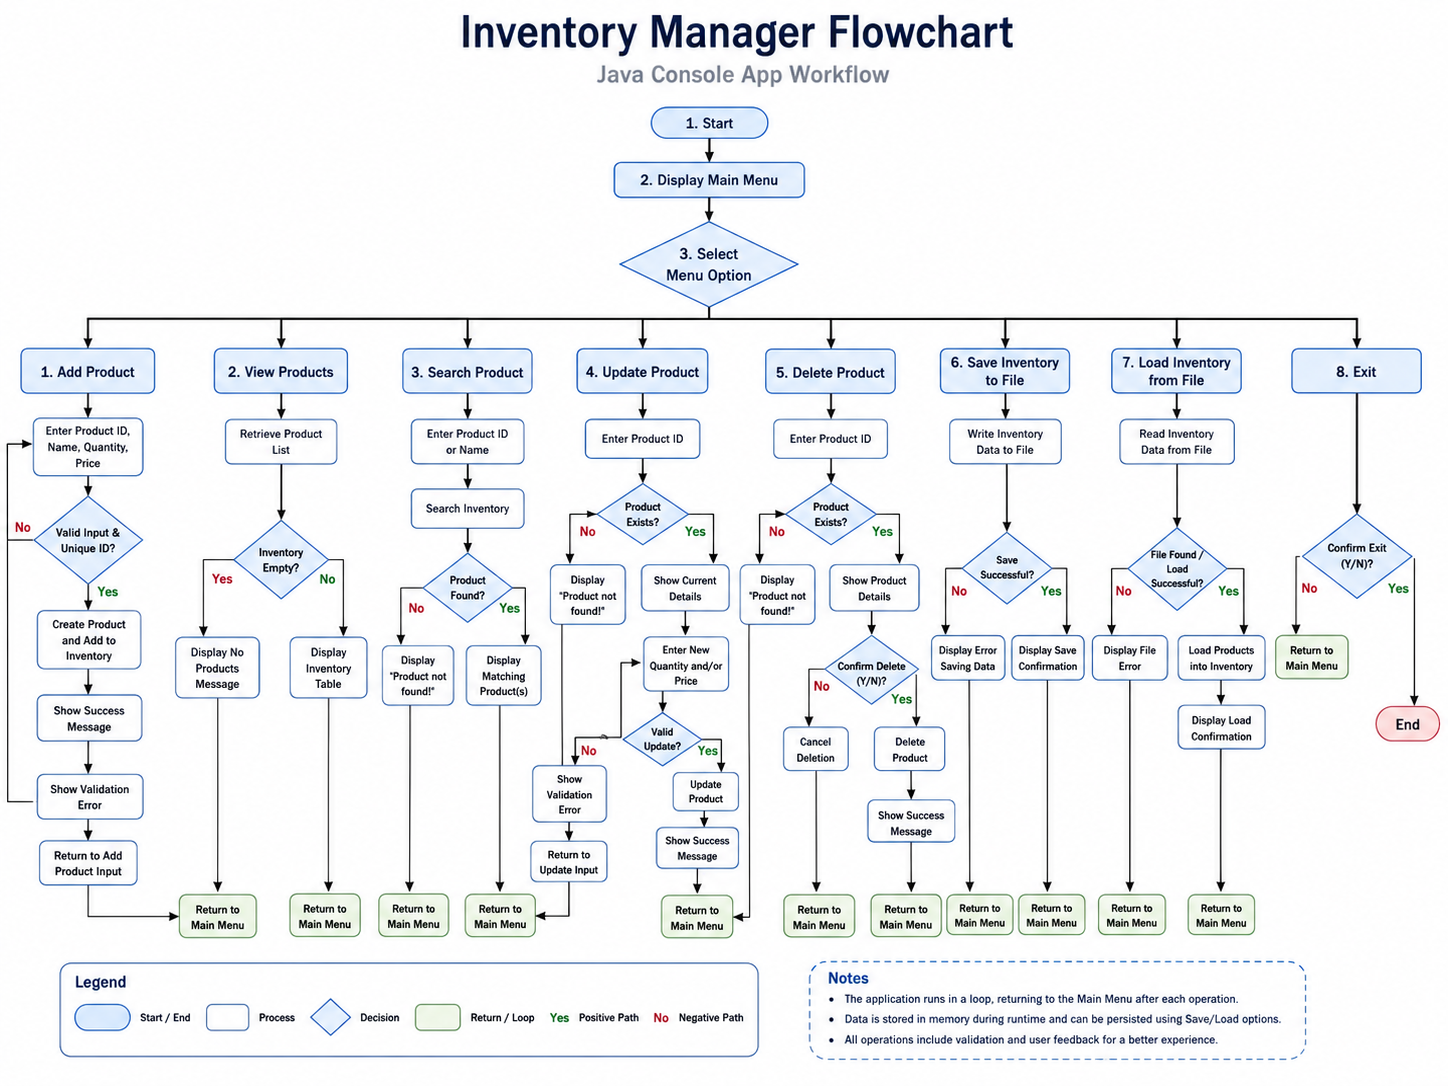
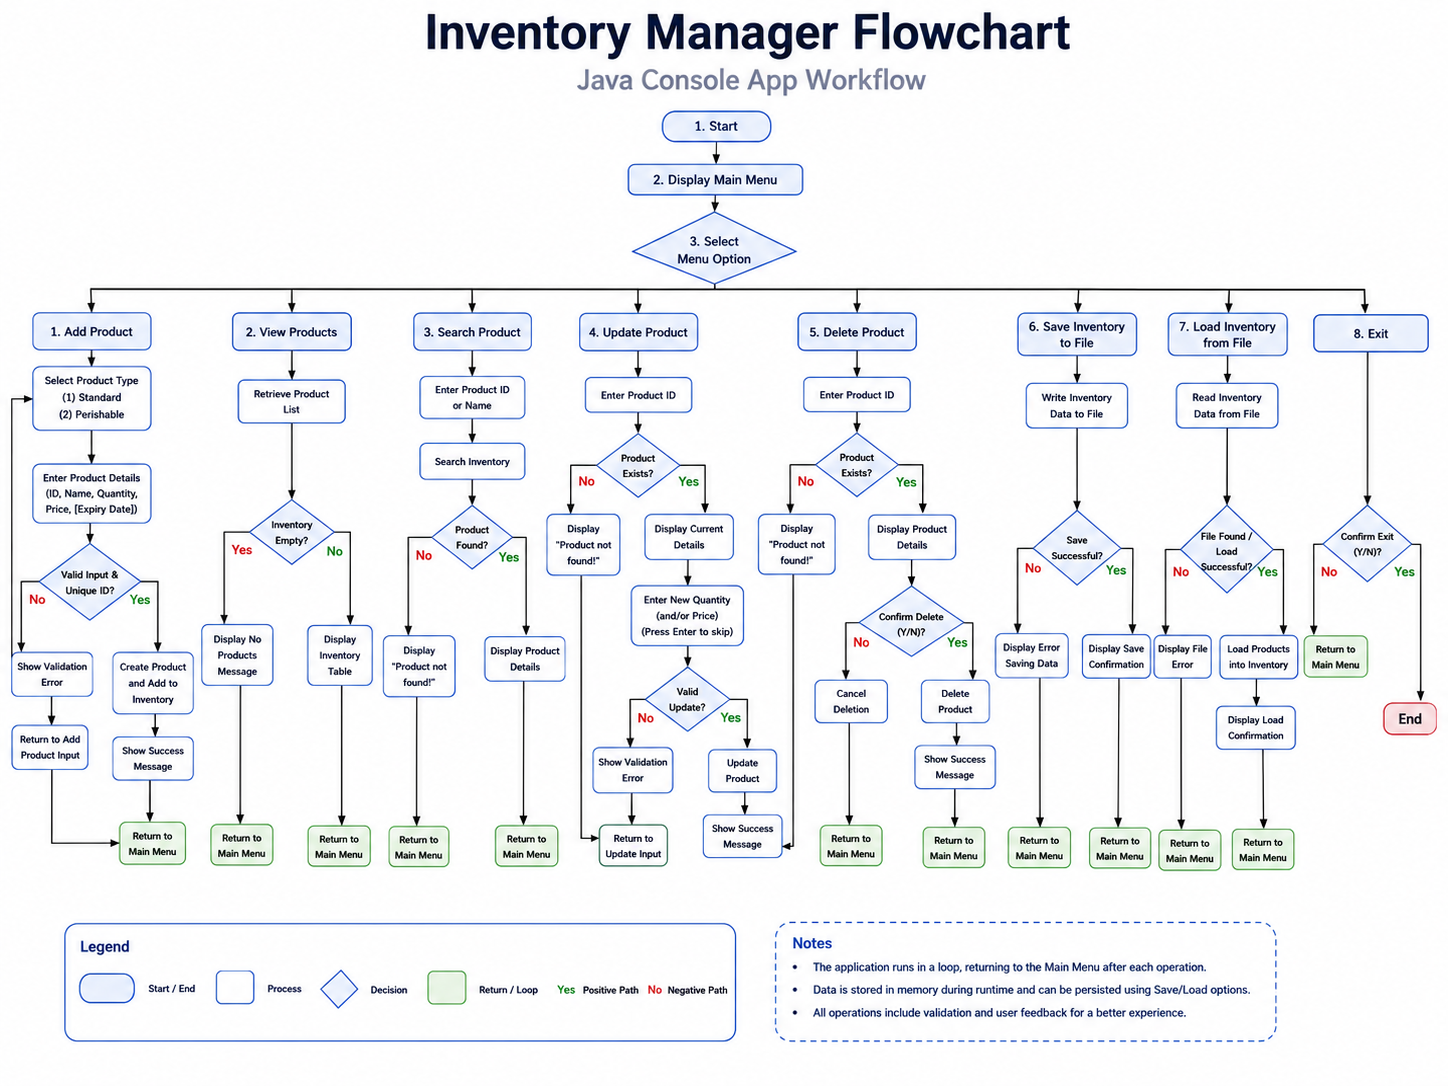
Final Push

Changed region(s): [[0.0, 0.0, 0.9945, 0.9724]]

diff --git a/swe_java/05_summative_assessment/java-summative-assessment/src/main/java/learn/inventory/ui/MainMenu.java b/swe_java/05_summative_assessment/java-summative-assessment/src/main/java/learn/inventory/ui/MainMenu.java
@@ -49,9 +49,7 @@ public class MainMenu {
         boolean running = true;
 
         while (running) {
-            /**
-             * Displays the available Inventory Manager menu options.
-             */
+
             displayMenu();
 
             String choice = scanner.nextLine().trim();
@@ -76,6 +74,9 @@ public class MainMenu {
         System.out.println("\nThank you for using Inventory Manager!");
     }
 
+    /**
+     * Displays the available Inventory Manager menu options.
+     */
     private void displayMenu() {
 
         displayDivider();

diff --git a/swe_java/05_summative_assessment/java-summative-assessment/documentation/project-doc/PROJECT_PLAN.md b/swe_java/05_summative_assessment/java-summative-assessment/documentation/project-doc/PROJECT_PLAN.md
@@ -134,3 +134,17 @@ The following features have been completed:
 - Handwritten pseudocode documentation
 - Javadoc comments for production classes
 - Generated HTML Javadoc documentation
+
+## Timeline and Milestones
+
+| Date | Focus | Milestone |
+|---|---|---|
+| July 19 | Pre-assessment review and planning | Reviewed the rubric, identified requirements, and began handwritten pseudocode |
+| July 20 | Continued preparation | Refined pseudocode, reviewed project expectations, and planned the initial class structure |
+| July 21 | Official project start, setup, and core features | Created the project, product model, service, menu, and core CRUD workflow |
+| July 22 | Advanced OOP and persistence | Added product hierarchy, interfaces, standard and perishable products, save, and load |
+| July 23 | Documentation and stabilization | Added project status, pseudocode images, class diagram, flowchart, and documentation organization |
+| July 24 | Architecture and code quality | Refactored persistence to code to an interface, added Javadocs, and generated HTML documentation |
+| July 25 | Testing | Expanded model, service, and repository test coverage |
+| July 26 | Final refinement | Updated documentation, completed repository testing, and refined console presentation |
+| July 27 | Final review and presentation | Final application review, final push, demonstration practice, and code-defense preparation |
